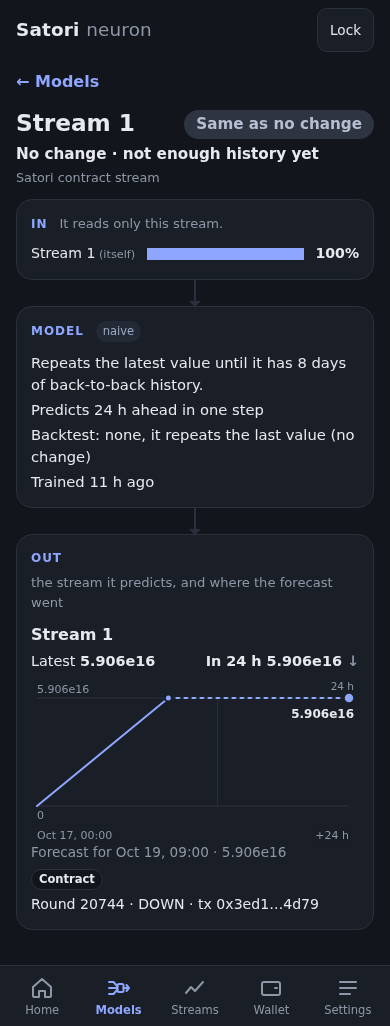
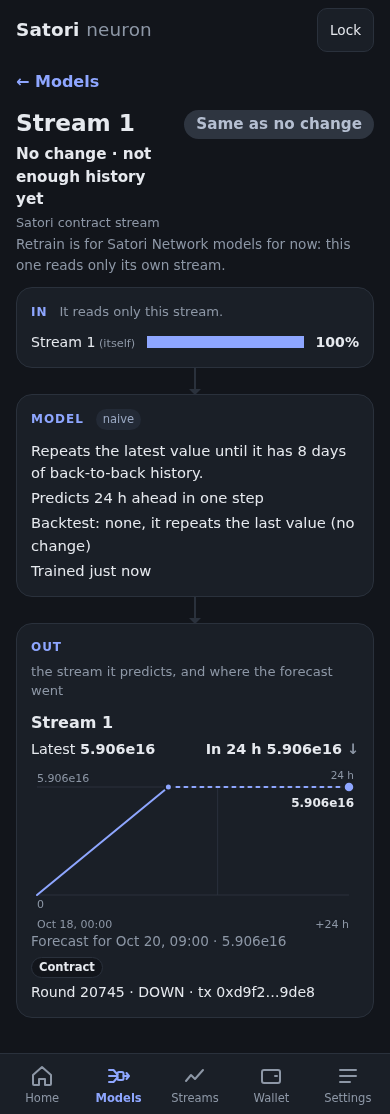
models: the filters are three toggles, all on; "All" is gone
The owner, 2026-10-18. Network, Contract and Relays, each with its
count, are toggles (aria-pressed, the selected style), all on at first;
a tap turns one off or on again and the list shows the models that go to
any one on; the last one on stays on, so the filters never empty the
list. Not kept: each visit to the tab starts with all three on. The
Models screenshots again (the drill-ins now show Retrain's line).

diff --git a/e2e/models.spec.js b/e2e/models.spec.js
@@ -199,18 +199,38 @@ test('Models: the engine\'s status, every model (central, Base, Network), filter
   expect(base.map((m) => [m.id, m.name, m.kind])).toEqual([['base:1', 'Stream 1', 'naive'], ['base:3', 'Stream 3', 'bar1']]);
   expect(base[1].outputs[0].destinations[0]).toMatchObject({ to: 'contract', status: 'sent', ref: { round: ROUND, tx: expect.stringMatching(/^0x/) } });
 
-  // Filter by where the predictions go; sort by quality or name.
-  await page.locator('[data-test=models-filter-contract]').click();
-  expect(await names(page)).toEqual(['Stream 1', 'Stream 3']);
-  await expect(page.locator('[data-test=models-filter-contract] .n')).toHaveText('2');
-  await page.locator('[data-test=models-filter-relays]').click();
+  // Filter by where the predictions go: three toggles ("All" is gone), all on at first; a tap turns one off or on again
+  // and the list shows the models that go to any one on; the last one on stays on (a tap does nothing), so the filters
+  // never empty the list.
+  const toggle = (k) => page.locator(`[data-test=models-filter-${k}]`);
+  const pressed = async () => Promise.all(['network', 'contract', 'relays'].map((k) => toggle(k).getAttribute('aria-pressed')));
+  await expect(page.locator('[data-test=models-filter-all]')).toHaveCount(0);
+  expect(await pressed()).toEqual(['true', 'true', 'true']);
+  await expect(rows(page)).toHaveCount(list.length);
+  await toggle('network').click();
+  expect(await pressed()).toEqual(['false', 'true', 'true']);
+  expect((await names(page)).sort()).toEqual(['Rain gauge', 'Stream 1', 'Stream 3']);
+  await toggle('contract').click();
   expect(await names(page)).toEqual(['Rain gauge']);
   await expect(rows(page).locator('.mname small')).toHaveText(`publishes ${stream}_pred`); // a word, not an arrow
   // on a phone the input chips say what they are (a computer's column header does): "reads +eth"
   await expect(rows(page).first().locator('.mreads')).toBeHidden();
-  await page.locator('[data-test=models-filter-network]').click();
-  await expect(rows(page)).toHaveCount(8);
-  await page.locator('[data-test=models-filter-all]').click();
+  await toggle('relays').click(); // the last one on: nothing happens
+  expect(await pressed()).toEqual(['false', 'false', 'true']);
+  expect(await names(page)).toEqual(['Rain gauge']);
+  await toggle('contract').click();
+  expect((await names(page)).sort()).toEqual(['Rain gauge', 'Stream 1', 'Stream 3']);
+  await expect(toggle('contract').locator('.n')).toHaveText('2'); // the counts are each destination's, whatever is on
+  await toggle('network').click();
+  await expect(rows(page)).toHaveCount(list.length);
+  // not kept: another visit to the tab starts with all three on
+  await toggle('network').click();
+  await toggle('relays').click();
+  expect(await pressed()).toEqual(['false', 'true', 'false']);
+  await page.evaluate(() => window.satori.go('home'));
+  await page.evaluate(() => window.satori.go('models'));
+  expect(await pressed()).toEqual(['true', 'true', 'true']);
+  await expect(rows(page)).toHaveCount(list.length);
   // Sort: the filters stay on the left; on the right a borderless "Sort" with its current choice, a menu of two with a
   // check on the current one, by keyboard (arrows, Enter, Escape back to the button) or a tap.
   const sortBtn = page.locator('[data-test=models-sort]');

diff --git a/src/neuron/models.test.js b/src/neuron/models.test.js
@@ -2,7 +2,7 @@
 // engine's status, sort and filter, and one model's drill-in recomputed from the stored history and spec.
 import { describe, expect, test } from 'vitest';
 import {
-  qualityOf, qualityOfAll, centralModels, nostrModels, baseModels, modelsOf, summaryOf, sortModels, filterModels, engineStatus,
+  qualityOf, qualityOfAll, centralModels, nostrModels, baseModels, modelsOf, summaryOf, sortModels, filterModels, toggleDest, DESTS, engineStatus,
   modelDetail, TIE,
 } from './models.js';
 import { runModels } from '../engine/evolve.js';
@@ -171,11 +171,23 @@ describe('the list: every model, named for the stream it predicts', () => {
       games: [{ streamId: 2, gameId: 2, named: false, direction: UP, model: 'bar1', latest: '1', forecast: '2', horizon: 86_400, step: 43_200 }] } });
     expect(sortModels(list, 'quality').map((m) => m.name)).toEqual(['gold', 'oil', 'eth', 'Stream 2']);
     expect(sortModels(list, 'name').map((m) => m.name)).toEqual(['eth', 'gold', 'oil', 'Stream 2']);
-    // by the words people see: the Satori Network, the Satori contract, the Satori relays
-    expect(filterModels(list, 'contract').map((m) => m.name)).toEqual(['Stream 2']);
-    expect(filterModels(list, 'network')).toHaveLength(3);
-    expect(filterModels(list, 'relays')).toEqual([]);
-    expect(filterModels(list, 'all')).toBe(list);
+    // by the words people see: the Satori Network, the Satori contract, the Satori relays; independent toggles, a model
+    // shown when it goes to any one selected
+    expect(DESTS).toEqual(['network', 'contract', 'relays']);
+    expect(filterModels(list, ['contract']).map((m) => m.name)).toEqual(['Stream 2']);
+    expect(filterModels(list, ['network'])).toHaveLength(3);
+    expect(filterModels(list, ['relays'])).toEqual([]);
+    expect(filterModels(list, ['network', 'contract'])).toHaveLength(4);
+    expect(filterModels(list, ['relays', 'contract']).map((m) => m.name)).toEqual(['Stream 2']);
+    expect(filterModels(list, DESTS)).toEqual(list);
+  });
+
+  test('toggleDest: a tap turns one destination off or on again; the last one on stays on (never an empty list by filters)', () => {
+    expect(toggleDest(DESTS, 'network')).toEqual(['contract', 'relays']);
+    expect(toggleDest(['contract', 'relays'], 'network')).toEqual(DESTS); // in the tab's order
+    expect(toggleDest(['relays'], 'contract')).toEqual(['contract', 'relays']);
+    expect(toggleDest(['relays'], 'relays')).toEqual(['relays']); // the last: nothing happens
+    expect(toggleDest(['relays'], 'nope')).toEqual(['relays']);
   });
 });
 

diff --git a/src/neuron/models.js b/src/neuron/models.js
@@ -6,7 +6,7 @@
 //   modelsOf({ streams, subscriptions, lastBatch, baseFits }) → [model]    pure: from what the app already holds (each
 //     model's backtest is kept with it, by the poll, the Nostr intake, the Base batch or the training pass: train.js)
 //   summaryOf(models), engineStatus({ summary, central, work, now })      the tab's top
-//   sortModels(list, 'quality' | 'name'), filterModels(list, 'all' | 'network' | 'contract' | 'relays')
+//   sortModels(list, 'quality' | 'name'), filterModels(list, ['network', 'contract', 'relays']), toggleDest(selected, to)
 //   await modelDetail({ db, id, streams, subscriptions, lastBatch, baseHistory })   one model, recomputed on demand, with
 //     `retrain`: whether Retrain is offered ({ available, why: null | 'source' | 'history', last: the last result })
 import { MARGIN, explainModel } from '../engine/evolve.js';
@@ -257,12 +257,20 @@ export function sortModels(list, by = 'quality') {
   return [...list].sort((a, b) => rank(a) - rank(b) || ratio(a) - ratio(b) || byName(a, b));
 }
 
-/**
- * The models whose predictions go to `to`, by the words people see: 'network' (the Satori Network, central), 'contract' (the
- * Satori contract, Base), 'relays' (the Satori relays, Nostr); 'all': the list itself.
- */
-export const filterModels = (list, to = 'all') => (to === 'all' ? list
-  : list.filter((m) => m.outputs.some((o) => o.destinations.some((d) => d.to === to))));
+/** Where predictions go, by the words people see: the Satori Network (central), the Satori contract (Base), the Satori relays (Nostr). */
+export const DESTS = ['network', 'contract', 'relays'];
+
+/** The models whose predictions go to any of `to` (the filters that are on). */
+export const filterModels = (list, to = DESTS) =>
+  list.filter((m) => m.outputs.some((o) => o.destinations.some((d) => to.includes(d.to))));
+
+/** A filter tapped: off if on, on if off, in DESTS' order; the last one on stays on, so the filters never empty the list. */
+export function toggleDest(selected, to) {
+  if (!DESTS.includes(to)) return selected;
+  const on = selected.includes(to);
+  if (on && selected.length === 1) return selected;
+  return DESTS.filter((k) => (k === to ? !on : selected.includes(k)));
+}
 
 /** The chart's history: the points from HISTORY_HORIZONS horizons before the forecast was made on, at most HISTORY_POINTS. */
 function recent(points, at, horizon) {

diff --git a/src/ui/models.js b/src/ui/models.js
@@ -16,7 +16,7 @@ export const box = { list: [], detail: null, retrains: {} };
 
 // where predictions go, by the words people see (docs/intent/ui.md): the Satori Network, the Satori contract, the Satori relays
 const TO = { network: 'Network', contract: 'Contract', relays: 'Relays' };
-const FILTERS = [['all', 'All'], ['network', 'Network'], ['contract', 'Contract'], ['relays', 'Relays']];
+const FILTERS = [['network', 'Network'], ['contract', 'Contract'], ['relays', 'Relays']]; // toggles, all on at first
 const SORTS = [['quality', 'Quality'], ['name', 'Name']];
 
 /** The models' hash route: ids are `<source>:<key>`, kept readable. */
@@ -36,7 +36,7 @@ function row(a, v) {
 /** The list's view, read again when the models, the sort or the filter change. */
 const listed = () => {
   void state.modelsRev;
-  return sortModels(filterModels(box.list, state.modelFilter), state.modelSort).map(rowView);
+  return sortModels(filterModels(box.list, state.modelTo), state.modelSort).map(rowView);
 };
 const summary = () => {
   void state.modelsRev;
@@ -44,7 +44,7 @@ const summary = () => {
 };
 const count = (to) => {
   void state.modelsRev;
-  return filterModels(box.list, to).length;
+  return filterModels(box.list, [to]).length;
 };
 
 function status() {
@@ -122,7 +122,7 @@ function sortMenu(a) {
 function controls(a) {
   return html`
   <div class="mcontrols">
-    <div class="segmented" role="group" aria-label="Show the models whose predictions go to">${FILTERS.map(([k, word]) => html`<button class="small-btn" data-test="${`models-filter-${k}`}" aria-pressed="${() => String(state.modelFilter === k)}" @click="${() => a.setModelView({ filter: k })}">${word} <span class="n">${() => count(k)}</span></button>`)}</div>
+    <div class="segmented" role="group" aria-label="Show the models whose predictions go to">${FILTERS.map(([k, word]) => html`<button class="small-btn" data-test="${`models-filter-${k}`}" aria-pressed="${() => String(state.modelTo.includes(k))}" @click="${() => a.setModelView({ to: k })}">${word} <span class="n">${() => count(k)}</span></button>`)}</div>
     ${sortMenu(a)}
   </div>`;
 }

diff --git a/src/main.js b/src/main.js
@@ -19,7 +19,7 @@ import {
 import { nsec, nostrSecretOf } from './nostr/event.js';
 import { createCentral } from './central/index.js';
 import { cycle, register, createPoller, centralStatus as statusOf, claimTab, firstPollAt } from './neuron/index.js';
-import { modelsOf, modelDetail } from './neuron/models.js';
+import { modelsOf, modelDetail, toggleDest, DESTS } from './neuron/models.js';
 import { createTrainer } from './neuron/train.js';
 import { createRetrain } from './neuron/retrain.js';
 import { box as modelBox, modelHref } from './ui/models.js';
@@ -436,6 +436,7 @@ function go(where, section) {
   if (location.hash !== hash) history.pushState(null, '', hash);
   const changed = state.tab !== tab;
   const opened = tab === 'models' && model !== state.modelOpen; // showModel scrolls
+  if (changed && tab === 'models') state.modelTo = [...DESTS]; // a visit to the tab: every filter on (not kept)
   state.tab = tab;
   if (changed) fillSettings();
   if (tab === 'models') showModel(model);
@@ -448,6 +449,7 @@ function go(where, section) {
 }
 addEventListener('popstate', () => {
   const { tab, model } = routeOf(location.hash);
+  if (tab === 'models' && state.tab !== 'models') state.modelTo = [...DESTS]; // a visit to the tab: every filter on
   state.tab = tab ?? 'home';
   if (state.tab === 'models') showModel(model);
   fillSettings();
@@ -622,9 +624,9 @@ const actions = {
       state.retrainError = err?.message ?? String(err);
     }
   },
-  /** The Models list's filter (where predictions go) and sort; the sort is kept on this device. */
-  setModelView({ filter, sort }) {
-    if (filter) state.modelFilter = filter;
+  /** The Models list's filters (where predictions go: a tap turns one off or on, the last stays on) and sort; the sort is kept on this device. */
+  setModelView({ to, sort }) {
+    if (to) state.modelTo = toggleDest(state.modelTo, to);
     if (sort) {
       state.modelSort = sort;
       writePref(SORT_KEY, sort);

diff --git a/src/ui/drill.js b/src/ui/drill.js
@@ -4,14 +4,13 @@
 // destinations, and In shows the inputs of the output chosen (the only one, today).
 import { fmtNum, fmtWhen, shortHash } from './format.js';
 import { fmtAgo } from '../neuron/health.js';
-import { spanText, markWords, kindLabelOf, descriptionOf } from '../neuron/models.js';
+import { spanText, markWords, kindLabelOf, descriptionOf, DESTS } from '../neuron/models.js';
 
-export { spanText };
+export { spanText, DESTS };
 
 const ARROW = { up: '↑', down: '↓', flat: '→' };
 // by the words people see (docs/intent/ui.md): the Satori Network (free), the Satori contract (uses gas), the Satori relays
 const LABEL = { network: 'Network', contract: 'Contract', relays: 'Relays' };
-export const DESTS = ['network', 'contract', 'relays'];
 const SOURCE = { central: 'Satori Network stream', base: 'Satori contract stream', nostr: 'Stream on the Satori relays' };
 const KINDS = ['bvar', 'bar1', 'bar1d', 'naive', 'echo'];
 

diff --git a/src/ui/state.js b/src/ui/state.js
@@ -41,7 +41,7 @@ export const state = reactive({
   modelsRev: 0,
   modelSort: readPref(SORT_KEY, ['quality', 'name'], 'quality'), // quality | name: this device's choice (src/ui/prefs.js)
   sortOpen: false, // the Sort menu is open
-  modelFilter: 'all', // all | central | base | network: where the predictions go
+  modelTo: ['network', 'contract', 'relays'], // the filters on (where predictions go); not kept: each visit to the tab starts with all
   modelOpen: '', // the drill-in's model id (#models/<id>), or ''
   modelRev: 0,
   modelOutput: 0, // whose inputs In shows (a model with several outputs)

diff --git a/src/style.css b/src/style.css
@@ -530,7 +530,7 @@ a.mrow:hover { background: color-mix(in srgb, var(--accent-soft) 55%, transparen
   .ring { width: 56px; height: 56px; }
   .chan .cost { flex-basis: 100%; margin: 0 0 0 24px; } /* a narrow chip: "free", "uses gas" under the name */
   .mcontrols .segmented { gap: 4px; }
-  .mcontrols .segmented .small-btn { padding: 6px 8px; } /* the four filters on one line, down to 360 px */
+  .mcontrols .segmented .small-btn { padding: 6px 8px; } /* the three filters on one line, down to 360 px */
 }
 
 /* ── a computer: the top nav and the dashboard grid ── */

diff --git a/docs/design/models.md b/docs/design/models.md
@@ -435,7 +435,13 @@ a day), the arrow after the forecast saying which way it goes from now (on
 a phone, two short lines: "Now 3,153.92" and "in 24 h 3,141.01 ↓"); where
 its predictions go, as tiny text tags in the chip style ("Network",
 "Contract", "Relays": the pictograms they replaced were unreadable). Above it, on the left, the
-filters **All · Network · Contract · Relays** (with counts); on the right a
+filters **Network · Contract · Relays**, each with its count: three toggles,
+all on at first (the owner, 2026-10-18: "remove the All filter button").
+A tap turns one off or on again (`aria-pressed`, the selected style), and
+the list shows the models whose predictions go to any one that is on; the
+last one on stays on (a tap on it does nothing), so the filters never empty
+the list. The choice is not kept: each visit to the tab (from another tab,
+or a reload) starts with all three on; back from a drill-in keeps it. On the right a
 borderless **Sort** with a sort icon (three stacked lines) that shows its
 choice subtly ("Sort: Quality"). Tapping it opens a small menu, **Quality**
 and **Name**, with a check on the current choice (quality: the lowest ratio
@@ -556,7 +562,7 @@ in four digits and a power of ten ("5.906e16", "1.234e−6"), never "0".
 - `data-test`: `models-tab`, `engine` (`data-tone`), `engine-title`,
   `engine-line`, `engine-kinds`, `engine-quality` (the bar's legend: its items `.qleg`, its `aria-label` the
   whole line), `engine-median`, `engine-note`,
-  `models-filter-<all|network|contract|relays>`, `models-sort` (the Sort button, `aria-expanded`),
+  `models-filter-<network|contract|relays>` (toggles, `aria-pressed`), `models-sort` (the Sort button, `aria-expanded`),
   `models-sort-menu`, `models-sort-<quality|name>` (its items, `aria-checked`),
   `models`, `model-row` (`data-id`, `data-mark`) with `model-mark` (the words; `data-short`: the phone's),
   `model-name`, `model-kind`, `model-inputs`, `model-forecast`, `model-to`;
@@ -595,7 +601,8 @@ agent API reads the tab's state instead of every stream's row again
 - `npm test`: `src/neuron/models.test.js` (the quality classes and their
   edges, naive and not scored, a perfect no change, several outputs' median;
   the list from central rows, Nostr subscriptions and a Base batch with what
-  was left out; the summary; sort and filter; the status's four states;
+  was left out; the summary; sort and filter (any destination on; a tap
+  toggles one, the last one on stays on); the status's four states;
   the drill-in recomputed for a bvar model, a Nostr model, a Base model with
   and without the chain; the Nostr scores cached per seq);
   `src/ui/drill.test.js` (a fabricated **two-output model**: Out draws both
@@ -619,7 +626,8 @@ agent API reads the tab's state instead of every stream's row again
   2 Base models) and subscribed to a stream on a test relay (16
   observations: a Network model). The status (Resting, Working with no
   animation on the tab while a poll is held, the counts by kind and mark),
-  `models()`, filter by destination, sort by name and quality, a row's
+  `models()`, the filters (three toggles, all on; one off and on again; the
+  last one on stays on; a new visit starts with all on), sort by name and quality, a row's
   chips, a bvar drill-in (In ranked and summing to 100%, the Model, Details,
   Out with its chart and Central's acceptance) and `model(id)` against the
   list, back to the list where it was, a Base drill-in, a deep link over a
